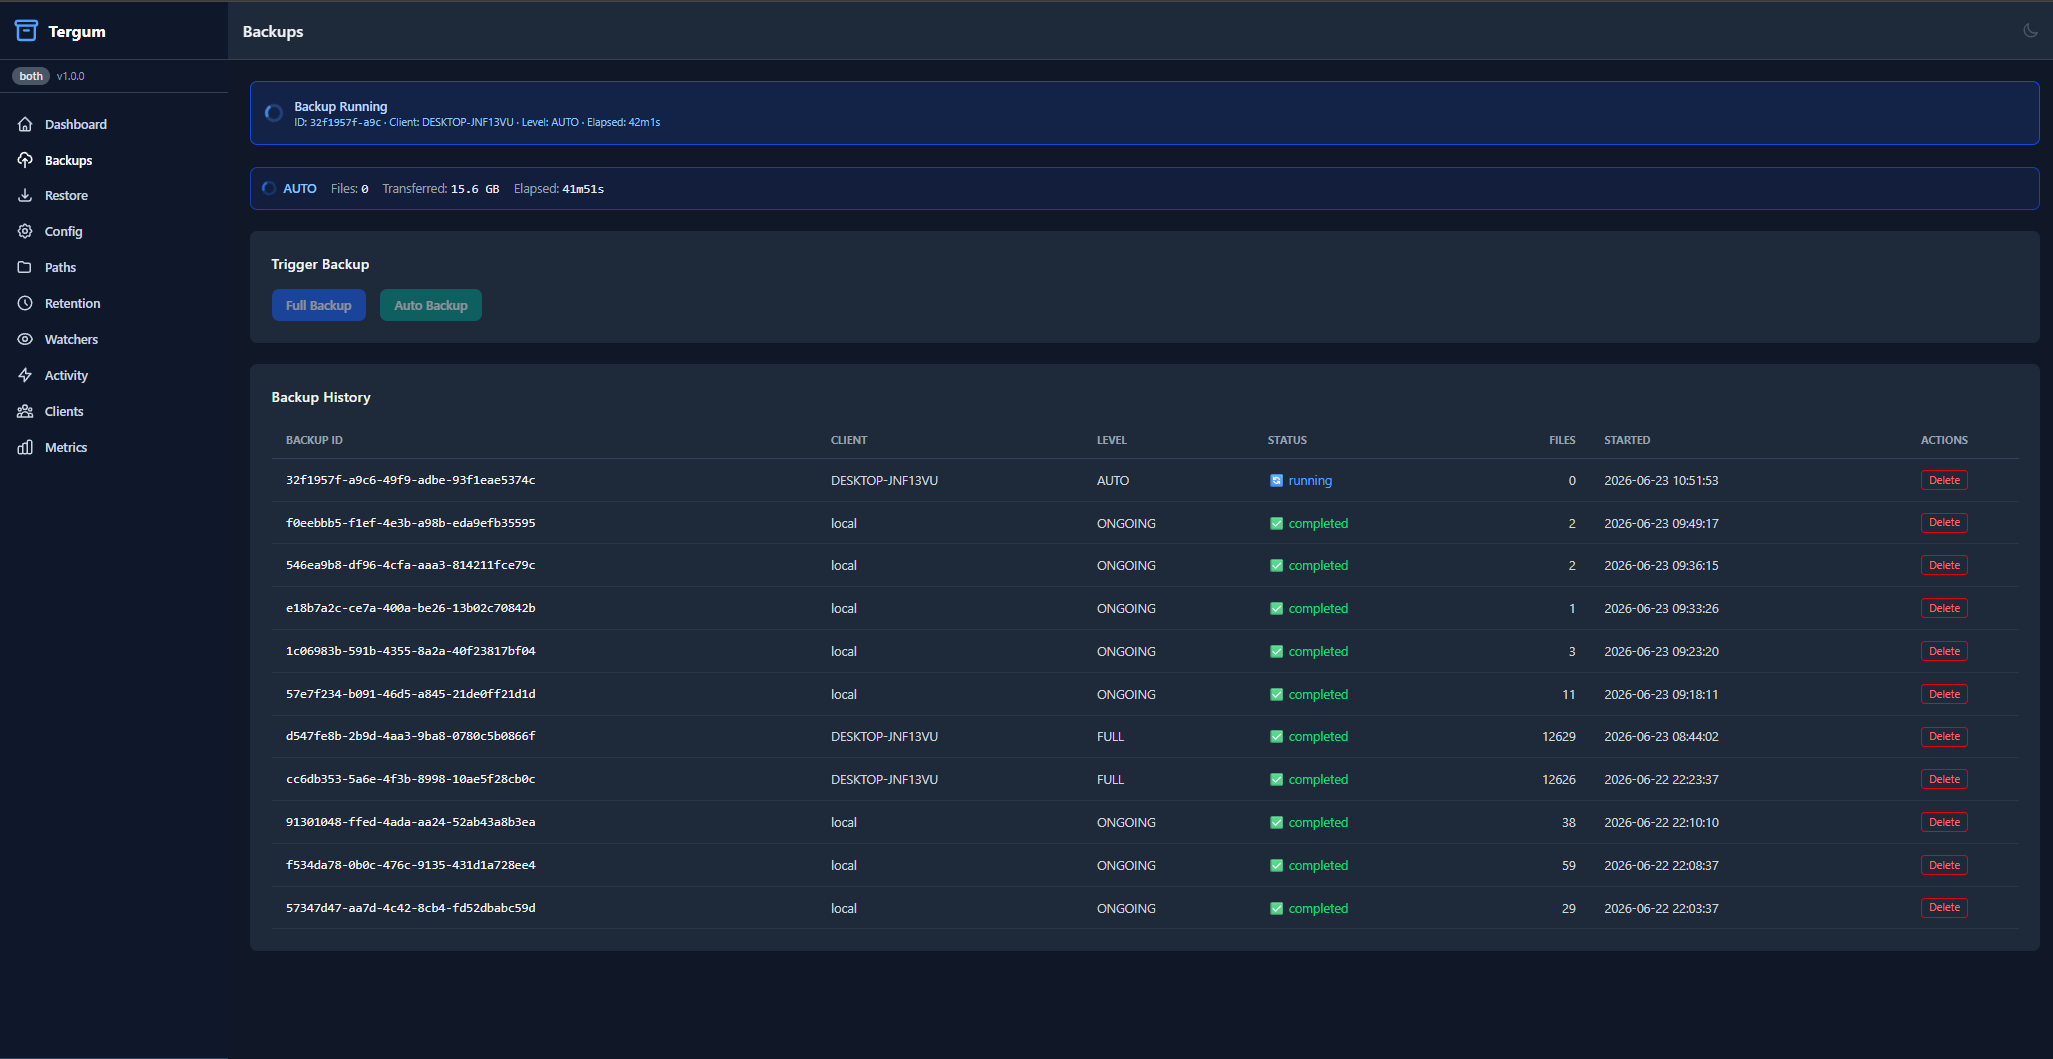
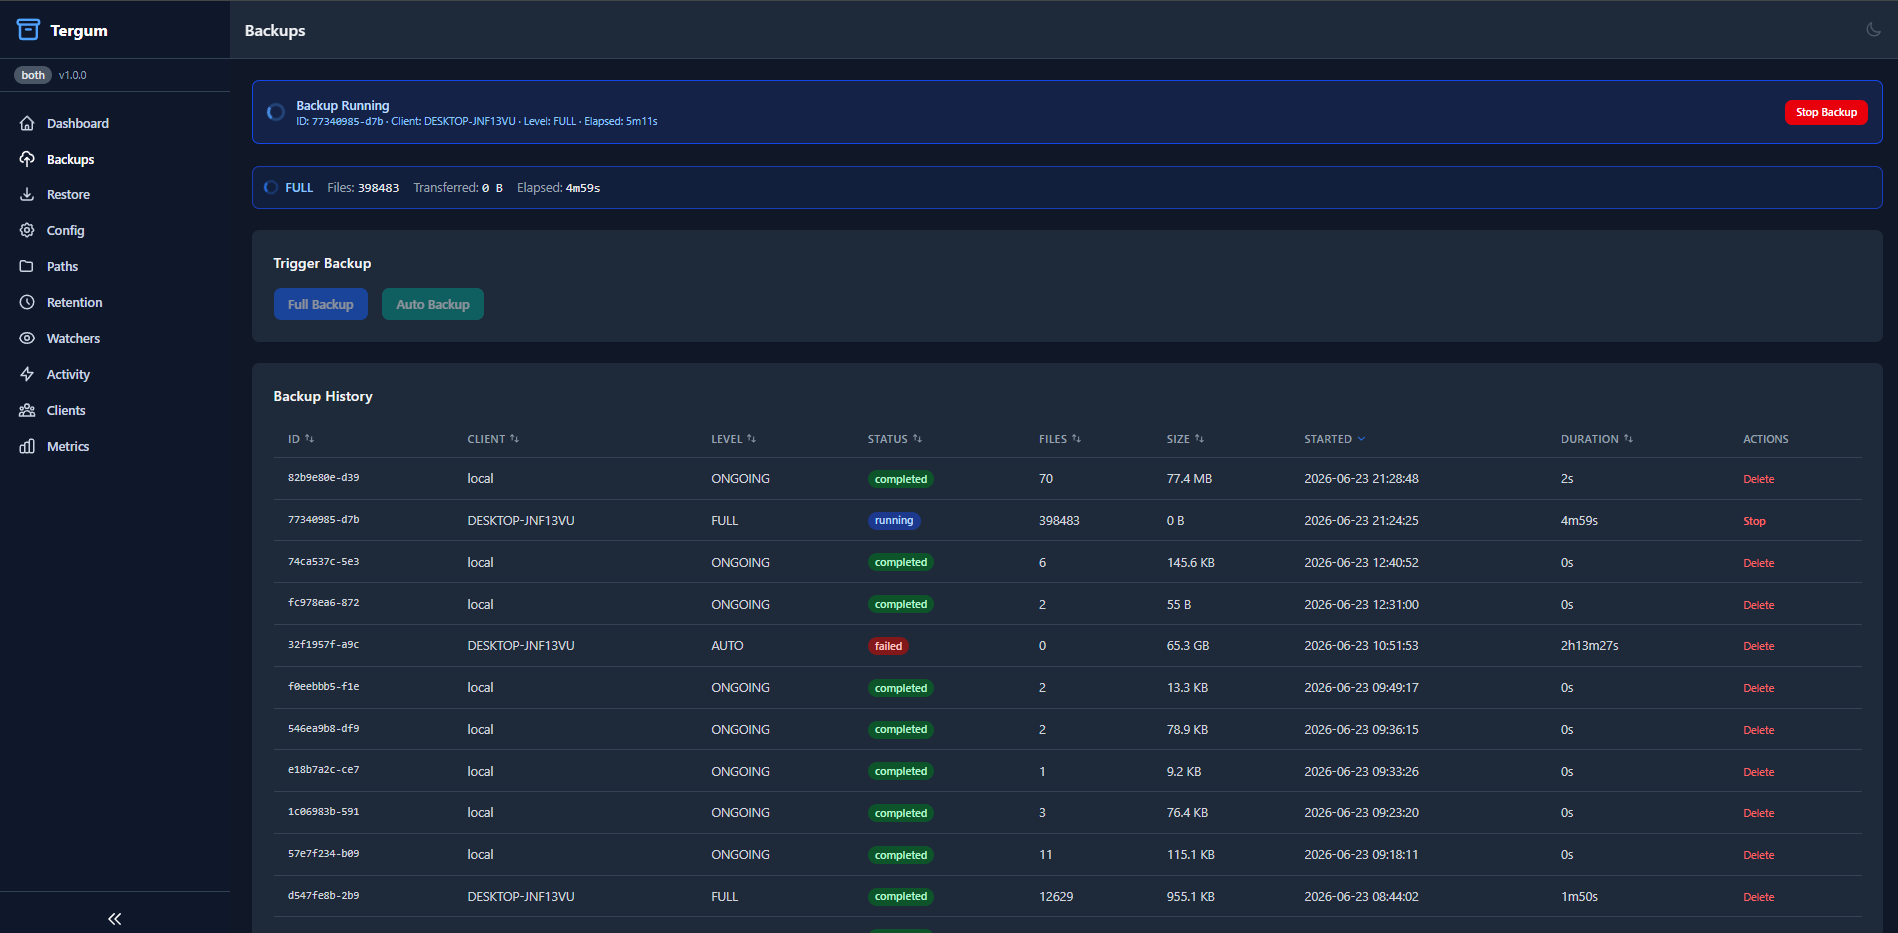
build 022 added restores to activity dashabord and larger toaster switch

diff --git a/internal/webui/templates/fragments/activity.html b/internal/webui/templates/fragments/activity.html
@@ -11,8 +11,8 @@
                     <button type="button"
                             @click="$store.app.toggleToasts()"
                             :class="$store.app.toastsEnabled ? 'bg-blue-500' : 'bg-gray-300 dark:bg-gray-600'"
-                            class="relative inline-flex h-6 w-11 flex-shrink-0 rounded-full border-2 border-transparent transition-colors duration-200 ease-in-out focus:outline-none focus:ring-2 focus:ring-blue-500 focus:ring-offset-2">
-                        <span :class="$store.app.toastsEnabled ? 'translate-x-5' : 'translate-x-0'"
+                            class="relative inline-flex h-6 w-20 flex-shrink-0 rounded-full border-2 border-transparent transition-colors duration-200 ease-in-out focus:outline-none focus:ring-2 focus:ring-blue-500 focus:ring-offset-2">
+                        <span :style="$store.app.toastsEnabled ? 'transform: translateX(3.5rem)' : 'transform: translateX(0)'"
                               class="pointer-events-none inline-block h-5 w-5 transform rounded-full bg-white shadow ring-0 transition duration-200 ease-in-out"></span>
                     </button>
                 </label>

diff --git a/internal/webui/templates/fragments/dashboard.html b/internal/webui/templates/fragments/dashboard.html
@@ -7,6 +7,8 @@
      @sse-backup_started.window="htmx.trigger('#activity-feed', 'load')"
      @sse-client_connected.window="htmx.trigger('#activity-feed', 'load')"
      @sse-client_disconnected.window="htmx.trigger('#activity-feed', 'load')"
+     @sse-restore_completed.window="htmx.trigger('#activity-feed', 'load')"
+     @sse-restore_failed.window="htmx.trigger('#activity-feed', 'load')"
 >
     <!-- System info row -->
     <div class="flex items-center gap-3 text-sm text-gray-500 dark:text-gray-400">

diff --git a/internal/webui/api_dashboard_cards.go b/internal/webui/api_dashboard_cards.go
@@ -3,6 +3,7 @@ package webui
 import (
 	"fmt"
 	"net/http"
+	"sort"
 	"time"
 
 	"github.com/gcclinux/tergum/internal/db"
@@ -217,27 +218,86 @@ func (s *Server) handleAPIDashboardActivity(w http.ResponseWriter, r *http.Reque
 		return
 	}
 
-	if len(jobs) == 0 {
+	restores, _ := s.repo.ListRestoreHistory(r.Context(), 10)
+
+	if len(jobs) == 0 && len(restores) == 0 {
 		fmt.Fprint(w, `<p class="text-sm text-gray-400 dark:text-gray-500 italic">No recent activity.</p>`)
 		return
 	}
 
-	fmt.Fprint(w, `<div class="space-y-3">`)
+	type activityItem struct {
+		Timestamp   time.Time
+		Icon        string
+		HtmlContent string
+		Status      string
+		StatusColor string
+	}
+
+	var items []activityItem
+
 	for _, j := range jobs {
 		icon := getStatusIcon(string(j.Status))
 		statusColor := getStatusColor(string(j.Status))
 		started := j.StartedAt.Format("Jan 02, 15:04")
+		backupIDTrunc := j.BackupID
+		if len(backupIDTrunc) > 12 {
+			backupIDTrunc = backupIDTrunc[:12]
+		}
+		htmlContent := fmt.Sprintf(`<p class="text-sm text-gray-700 dark:text-gray-300 truncate">Backup <span class="font-medium">%s</span> — %s</p><p class="text-xs text-gray-400 dark:text-gray-500">%s</p>`, j.Level, backupIDTrunc, started)
+
+		items = append(items, activityItem{
+			Timestamp:   j.StartedAt,
+			Icon:        icon,
+			HtmlContent: htmlContent,
+			Status:      string(j.Status),
+			StatusColor: statusColor,
+		})
+	}
+
+	for _, rec := range restores {
+		icon := "📥"
+		status := "success"
+		statusColor := "bg-green-100 dark:bg-green-900/30 text-green-700 dark:text-green-400"
+		if !rec.Success {
+			icon = "❌"
+			status = "failed"
+			statusColor = "bg-red-100 dark:bg-red-900/30 text-red-700 dark:text-red-400"
+		}
+		restoredTime := rec.RestoredAt.Format("Jan 02, 15:04")
+		htmlContent := fmt.Sprintf(`<p class="text-sm text-gray-700 dark:text-gray-300 truncate">Restore — <span class="font-medium">%s</span></p><p class="text-xs text-gray-400 dark:text-gray-500">%s</p>`, rec.FileName, restoredTime)
+
+		items = append(items, activityItem{
+			Timestamp:   rec.RestoredAt,
+			Icon:        icon,
+			HtmlContent: htmlContent,
+			Status:      status,
+			StatusColor: statusColor,
+		})
+	}
+
+	// Sort newest first
+	sort.Slice(items, func(i, j int) bool {
+		return items[i].Timestamp.After(items[j].Timestamp)
+	})
+
+	// Limit to 10
+	if len(items) > 10 {
+		items = items[:10]
+	}
+
+	fmt.Fprint(w, `<div class="space-y-3">`)
+	for _, item := range items {
 		fmt.Fprintf(w, `<div class="flex items-center gap-3 py-2 border-b border-gray-100 dark:border-gray-700 last:border-0">`)
-		fmt.Fprintf(w, `<span class="text-base">%s</span>`, icon)
+		fmt.Fprintf(w, `<span class="text-base">%s</span>`, item.Icon)
 		fmt.Fprintf(w, `<div class="flex-1 min-w-0">`)
-		fmt.Fprintf(w, `<p class="text-sm text-gray-700 dark:text-gray-300 truncate">Backup <span class="font-medium">%s</span> — %s</p>`, j.Level, j.BackupID[:min(12, len(j.BackupID))])
-		fmt.Fprintf(w, `<p class="text-xs text-gray-400 dark:text-gray-500">%s</p>`, started)
+		fmt.Fprint(w, item.HtmlContent)
 		fmt.Fprintf(w, `</div>`)
-		fmt.Fprintf(w, `<span class="text-xs font-medium px-2 py-0.5 rounded-full %s">%s</span>`, statusColor, j.Status)
+		fmt.Fprintf(w, `<span class="text-xs font-medium px-2 py-0.5 rounded-full %s">%s</span>`, item.StatusColor, item.Status)
 		fmt.Fprintf(w, `</div>`)
 	}
 	fmt.Fprint(w, `</div>`)
 }
+
 
 // getStatusIcon returns an emoji icon for a job status.
 func getStatusIcon(status string) string {
